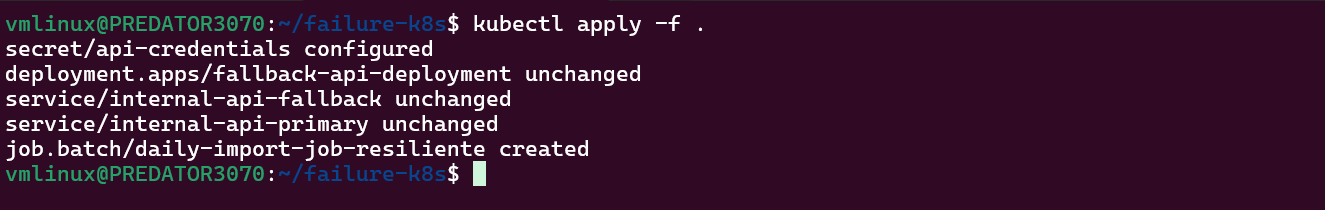
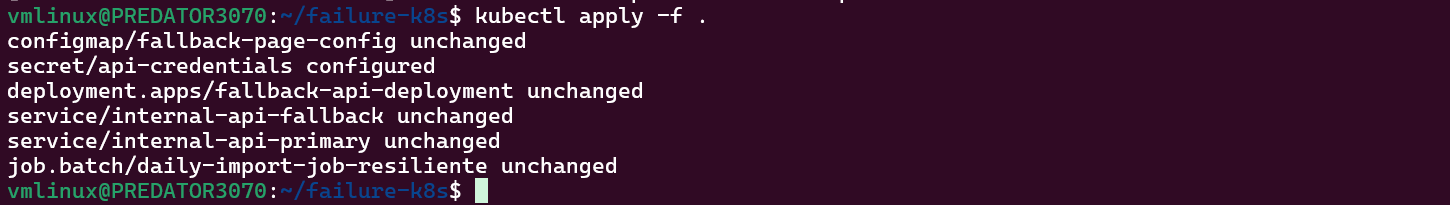
Update README

Changed region(s): [[0.0, 0.0, 1.0, 0.9951]]

diff --git a/README.md b/README.md
@@ -39,14 +39,14 @@ Siga estes passos para replicar a simulação no seu ambiente WSL.
     * Vá em `Settings > Resources > WSL Integration`.
     * Habilite a integração com sua distro Ubuntu.
     * Clique em `Apply & Restart`.
-    *(Como visto no PDF: captura de tela da integração do Docker com WSL)*
+    ![image](/assets/image01.png)
 
 2.  **KIND (Kubernetes in Docker):**
     Instale o KIND (Kubernetes in Docker) dentro do seu terminal WSL Ubuntu.
 
     ```bash
     # 1. Baixar o binário
-    curl -Lo ./kind [https://kind.sigs.k8s.io/dl/v0.23.0/kind-linux-amd64](https://kind.sigs.k8s.io/dl/v0.23.0/kind-linux-amd64)
+    curl -Lo ./kind [https://kind.sigs.k8s.io/dl/v0.23.0/kind-linux-amd64](https://kind.sigs.k8s.io/dl/v0.30.0/kind-linux-amd64)
     
     # 2. Tornar executável
     chmod +x ./kind
@@ -57,6 +57,7 @@ Siga estes passos para replicar a simulação no seu ambiente WSL.
     # 4. Verificar a instalação
     kind version
     ```
+    ![image](/assets/image02.png)
 
 ### Passo 0: Criar o Cluster KIND
 
@@ -65,6 +66,8 @@ Crie um cluster de Kubernetes local chamado `failure-k8s`.
 ```bash
 kind create cluster --name failure-k8s
 ```
+![image](/assets/image03.png)
+
 Passo 1: Clonar o Repositório
 Obtenha todos os arquivos YAML necessários clonando este repositório.
 
@@ -73,13 +76,254 @@ Bash
 # Clona o repositório
 git clone [https://github.com/Robelio-cloud/failure-k8s.git](https://github.com/Robelio-cloud/failure-k8s.git)
  
+![image](/assets/image04.png)
+
 # Acessa o diretório do projeto
 cd failure-k8s
+
+Dentro do diretório failure-k8s abrir o VScode para criação dos arquivos YAML:
+
+code . 
+
+![image](/assets/image05.png)
+
+![image](/assets/image06.png)
+
+## 00-custom-page-configmap.yaml
+Criar o ConfigMap com o HTML customizada API de Fallback Ativada, substituindo a página padrão do Nginx
+
+```bash
+apiVersion: v1
+kind: ConfigMap
+metadata:
+  name: fallback-page-config
+data:
+  # Este será o nome do arquivo (index.html)
+  # O | indica que o que vem abaixo é um bloco de texto multi-linha
+  index.html: |
+    <!DOCTYPE html>
+    <html lang="pt-br">
+    <head>
+        <title>Sistema de Contingência</title>
+        <style>
+            body { 
+                font-family: Arial, sans-serif; 
+                text-align: center; 
+                margin-top: 100px; 
+                background-color: #fff8e1; /* Um amarelo claro de "alerta" */
+                color: #333;
+            }
+            h1 { 
+                color: #d9534f; /* Vermelho */
+            }
+        </style>
+    </head>
+    <body>
+        <h1>API de Fallback Ativada</h1>
+        <p>O servi&ccedil;o prim&aacute;rio (internal-api-primary) falhou em responder.</p>
+        <p>Voc&ecirc; foi redirecionado para este endpoint de conting&ecirc;ncia (o Nginx).</p>
+        <p><strong>A importa&ccedil;o de dados (Job) foi conclu&iacute;da com SUCESSO usando esta rota.</strong></p>
+    </body>
+    </html>
+```
+![image](/assets/image08.3.png)
+
+
+## 01-secret.yaml
+Este é o Secret que o Job precisa acessar.
+
+
+```bash
+apiVersion: v1
+kind: Secret
+metadata:
+  name: api-credentials
+type: Opaque
+stringData:
+  # Chave de API fictícia que o job usará
+  API_KEY: "secret-key-para-importacao-123456"
+```
+![image](/assets/image07.png)
+
+## 02-fallback-app.yaml
+Este é o Deployment e o Service de fallback (o que funciona).
+
+
+```bash
+# -----------------
+# DEPLOYMENT DE FALLBACK (O QUE FUNCIONA)
+# -----------------
+apiVersion: apps/v1
+kind: Deployment
+metadata:
+  name: fallback-api-deployment
+spec:
+  replicas: 1
+  selector:
+    matchLabels:
+      app: fallback-app
+  template:
+    metadata:
+      labels:
+        app: fallback-app
+    spec:
+      # --- ADIÇÃO 1: Definir o Volume ---
+      # Aqui dizemos ao Pod para "pegar" o ConfigMap
+      volumes:
+      - name: nginx-html-volume # Um nome que daremos ao volume
+        configMap:
+          # O nome do ConfigMap que criamos no Passo 2
+          name: fallback-page-config 
+      
+      containers:
+      - name: nginx
+        image: nginx:alpine 
+        ports:
+        - containerPort: 80
+        
+        # --- ADIÇÃO 2: Montar o Volume ---
+        # Aqui dizemos ao container Nginx para USAR o volume
+        volumeMounts:
+        - name: nginx-html-volume # O mesmo nome do volume acima
+          # O Nginx serve arquivos deste diretório:
+          mountPath: /usr/share/nginx/html/index.html
+          # Qual "chave" (arquivo) do ConfigMap queremos usar:
+          subPath: index.html 
+---
+# -----------------
+# SERVICE DE FALLBACK (O QUE FUNCIONA)
+# -----------------
+apiVersion: v1
+kind: Service
+metadata:
+  name: internal-api-fallback
+spec:
+  selector:
+    app: fallback-app 
+  ports:
+  - protocol: TCP
+    port: 80
+    targetPort: 80
+```
+![image](/assets/image08.png)
+
+## 03-primary-service-falho.yaml
+Este é o Service primário (que vai falhar). Note que criamos o Service, mas não há Deployment ou Pods com o label app: primary-app.
+
+```bash
+apiVersion: v1
+kind: Service
+metadata:
+  name: internal-api-primary
+spec:
+  selector:
+    # Este seletor NÃO ENCONTRA NENHUM POD, simulando a falha.
+    app: primary-app 
+  ports:
+  - protocol: TCP
+    port: 80
+    targetPort: 80
+```
+
+![image](/assets/image08.1.png)
+
+## 04-job-com-backoff.yaml 
+Note como a seção args: do container inclui a lógica de loop, sleep (backoff) e retry antes de finalmente tentar o fallback.
+
+```bash
+apiVersion: batch/v1
+kind: Job
+metadata:
+  name: daily-import-job-resiliente
+spec:
+  backoffLimit: 0
+  template:
+    spec:
+      containers:
+      - name: import-worker-with-backoff
+        image: curlimages/curl:latest 
+        
+        command: ["/bin/sh", "-c"]
+        args:
+          - |
+            # --- Configuração da Estratégia ---
+            PRIMARY_URL="http://internal-api-primary"
+            FALLBACK_URL="http://internal-api-fallback"
+            MAX_ATTEMPTS=3
+            BASE_SLEEP_SECONDS=5 # Base para o backoff (5s, 10s, 15s)
+            
+            echo "[$(date)] Job de importação (com backoff) iniciado."
+            echo "[$(date)] Chave API carregada (log): ${MY_API_KEY:0:10}..." # Log parcial da chave
+            
+            # --- Lógica de Retry/Backoff no Primário ---
+            success=false
+            
+            # Tenta executar o loop MAX_ATTEMPTS vezes (ex: 3 vezes)
+            for i in $(seq 1 $MAX_ATTEMPTS); do
+              echo "[$(date)] Tentativa $i/$MAX_ATTEMPTS: Acessando primário ($PRIMARY_URL)..."
+              
+              # 'if curl...' só executa o 'then' se o curl retornar código 0 (sucesso)
+              if curl -sf --connect-timeout 5 $PRIMARY_URL; then
+                echo "[$(date)] SUCESSO: Conexão primária bem-sucedida na tentativa $i."
+                success=true
+                break # Sai do loop 'for' com sucesso
+              fi
+              
+              # Se chegou aqui, o curl falhou.
+              
+              # Se não for a última tentativa, aplica o backoff
+              if [ $i -lt $MAX_ATTEMPTS ]; then
+                sleep_time=$((i * BASE_SLEEP_SECONDS)) # Backoff linear: 1*5s, 2*5s=10s...
+                echo "[$(date)] FALHA (Tentativa $i): Primário inacessível. Aguardando $sleep_time segundos (backoff)..."
+                sleep $sleep_time
+              fi
+            done
+            
+            # --- Verificação Pós-Loop ---
+            
+            # Se o loop terminou com sucesso, encerra o Job com sucesso
+            if [ "$success" = "true" ]; then
+              echo "[$(date)] Job concluído com SUCESSO (via primário)."
+              exit 0
+            fi
+            
+            # --- Lógica de Fallback (só executa se o loop falhar 3x) ---
+            
+            echo "[$(date)] FALHA GERAL (Primário): Endpoint $PRIMARY_URL inacessível após $MAX_ATTEMPTS tentativas."
+            echo "[$(date)] ACIONANDO FALLBACK para $FALLBACK_URL..."
+            
+            if curl -sf --connect-timeout 5 $FALLBACK_URL; then
+              echo "[$(date)] SUCESSO: Dados importados via endpoint de FALLBACK."
+              exit 0
+            else
+              echo "[$(date)] FALHA GERAL (Primário E Fallback): Todos os endpoints falharam."
+              exit 1
+            fi
+
+        # ------------------------------------
+        # CORREÇÃO AQUI: 'env:' está agora
+        # DENTRO de 'containers:'
+        # ------------------------------------
+        env:
+          # Injeta o Secret como variável de ambiente
+          - name: MY_API_KEY
+            valueFrom:
+              secretKeyRef:
+                name: api-credentials
+                key: API_KEY
+      
+      # 'restartPolicy' fica no nível do 'spec'
+      restartPolicy: Never
+```
+![image](/assets/image08.2.png)
+
+
 Passo 2: Aplicar os Recursos da Simulação
 Agora, aplique todos os arquivos YAML (o ConfigMap, o Secret, os Serviços e o Job) no seu cluster de uma só vez.
 
 
 kubectl apply -f .
+
 Saída Esperada:
 
 configmap/fallback-page-config created
@@ -88,17 +332,21 @@ deployment.apps/fallback-api-deployment created
 service/internal-api-fallback created
 service/internal-api-primary created
 job.batch/daily-import-job-resiliente created
+
+![image](/assets/image09.png)
+
 Verificando a Simulação (As Evidências)
 Com os recursos aplicados, o Job iniciará imediatamente. Vamos verificar os resultados.
 
-Evidência 1: Logs do Job (Backoff + Fallback)
+# Evidência 1: Logs do Job (Backoff + Fallback)
 Esta é a evidência principal. O log do Job nos mostrará a falha, as tentativas de backoff e o sucesso final via fallback.
 
 Encontre o nome do Pod do Job: O Kubernetes cria um pod para o job com um nome aleatório.
 
-
 kubectl get pods
 (Procure pelo pod que começa com daily-import-job-resiliente-... e status Running ou Completed).
+
+![image](/assets/image10.png)
 
 Veja os Logs: Use o nome do pod encontrado para ver os logs. O comando -f (follow) permite ver os logs ao vivo.
 
@@ -121,59 +369,27 @@ O curl imprimindo o HTML da nossa página customizada ("Sistema de Contingência
 
 A mensagem final de SUCESSO.
 
-Snippet de código
-
-[Mon Oct 27 19:31:45 UTC 2025] Job de importação (com backoff) iniciado.
-[Mon Oct 27 19:31:45 UTC 2025] Chave API carregada (log): secret-key...
-[Mon Oct 27 19:31:45 UTC 2025] Tentativa 1/3: Acessando primário (http://internal-api-primary)...
-[Mon Oct 27 19:31:45 UTC 2025] FALHA (Tentativa 1): Primário inacessível. Aguardando 5 segundos (backoff)...
-[Mon Oct 27 19:31:50 UTC 2025] Tentativa 2/3: Acessando primário (http://internal-api-primary)...
-[Mon Oct 27 19:31:50 UTC 2025] FALHA (Tentativa 2): Primário inacessível. Aguardando 10 segundos (backoff)...
-[Mon Oct 27 19:32:00 UTC 2025] Tentativa 3/3: Acessando primário (http://internal-api-primary)...
-[Mon Oct 27 19:32:00 UTC 2025] FALHA GERAL (Primário): Endpoint http://internal-api-primary inacessível após 3 tentativas.
-[Mon Oct 27 19:32:00 UTC 2025] ACIONANDO FALLBACK para http://internal-api-fallback...
-<!DOCTYPE html>
-<html lang="pt-br">
-<head>
-<title>Sistema de Contingência</title>
-<style>
-body {
-font-family: Arial, sans-serif;
-text-align: center;
-margin-top: 100px;
-background-color: #fff8e1; /* Um amarelo claro de "alerta" */
-color: #333;
-}
-h1 {
-color: #d9534f; /* Vermelho */
-}
-</style>
-</head>
-<body>
-<h1>API de Fallback Ativada</h1>
-<p>O servi&ccedil;o prim&aacute;rio (internal-api-primary) falhou em responder.</p>
-<p>Voc&ecirc; foi redirecionado para este endpoint de conting&ecirc;ncia (o Nginx).</p>
-<p><strong>A importa&ccedil;o de dados (Job) foi conclu&iacute;da com SUCESSO usando esta rota.</strong></p>
-</body>
-</html>
-[Mon Oct 27 19:32:00 UTC 2025] SUCESSO: Dados importados via endpoint de FALLBACK.
-Evidência 2: Acessando o Endpoint de Fallback (Localhost)
-Podemos verificar a página de contingência diretamente no nosso navegador criando um "túnel" para o serviço.
+![image](/assets/image11.png)
 
 Abra um novo terminal WSL.
 
 Execute o kubectl port-forward. Usamos a porta local 8081 (pois a 8080 pode estar em uso).
 
-Bash
-
+```bash
 kubectl port-forward service/internal-api-fallback 8081:80
+```
+
 Saída Esperada:
 
 Forwarding from 127.0.0.1:8081 -> 80
 Forwarding from [::1]:8081 -> 80
-Abra seu navegador: Acesse http://localhost:8081. Você verá a página "API de Fallback Ativada", confirmando que o serviço de contingência está no ar e servindo o HTML customizado. (Como visto no PDF: captura de tela da página de fallback sendo exibida no navegador)
+Abra seu navegador: Acesse http://localhost:8081. 
+Você verá a página "API de Fallback Ativada", confirmando que o serviço de contingência está no ar e servindo o HTML customizado. 
 
-Arquitetura dos Arquivos YAML
+![image](/assets/image12.png)
+
+# Arquitetura dos Arquivos YAML
+
 00-custom-page-configmap.yaml: Cria um ConfigMap que armazena nosso index.html customizado de "Sistema de Contingência".
 
 01-secret.yaml: Cria o Secret api-credentials com uma chave API_KEY fictícia.
